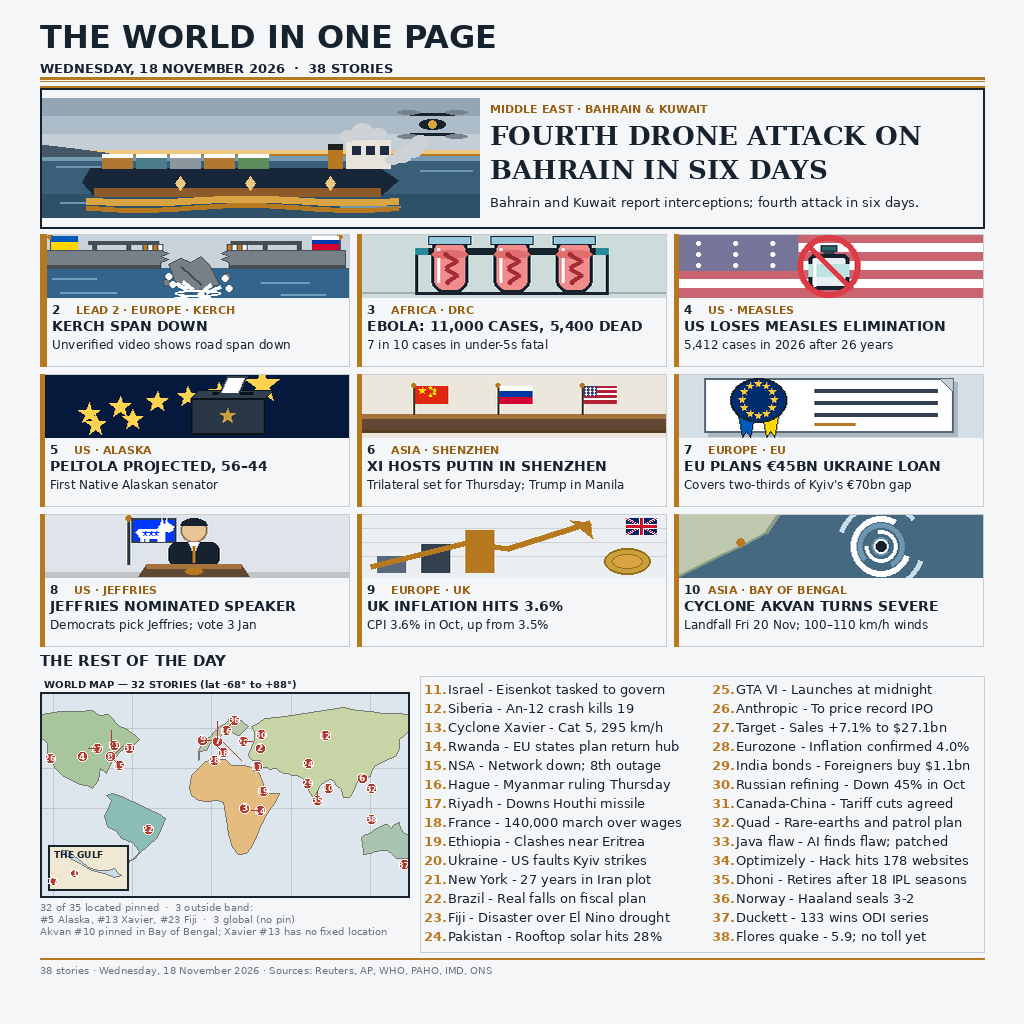
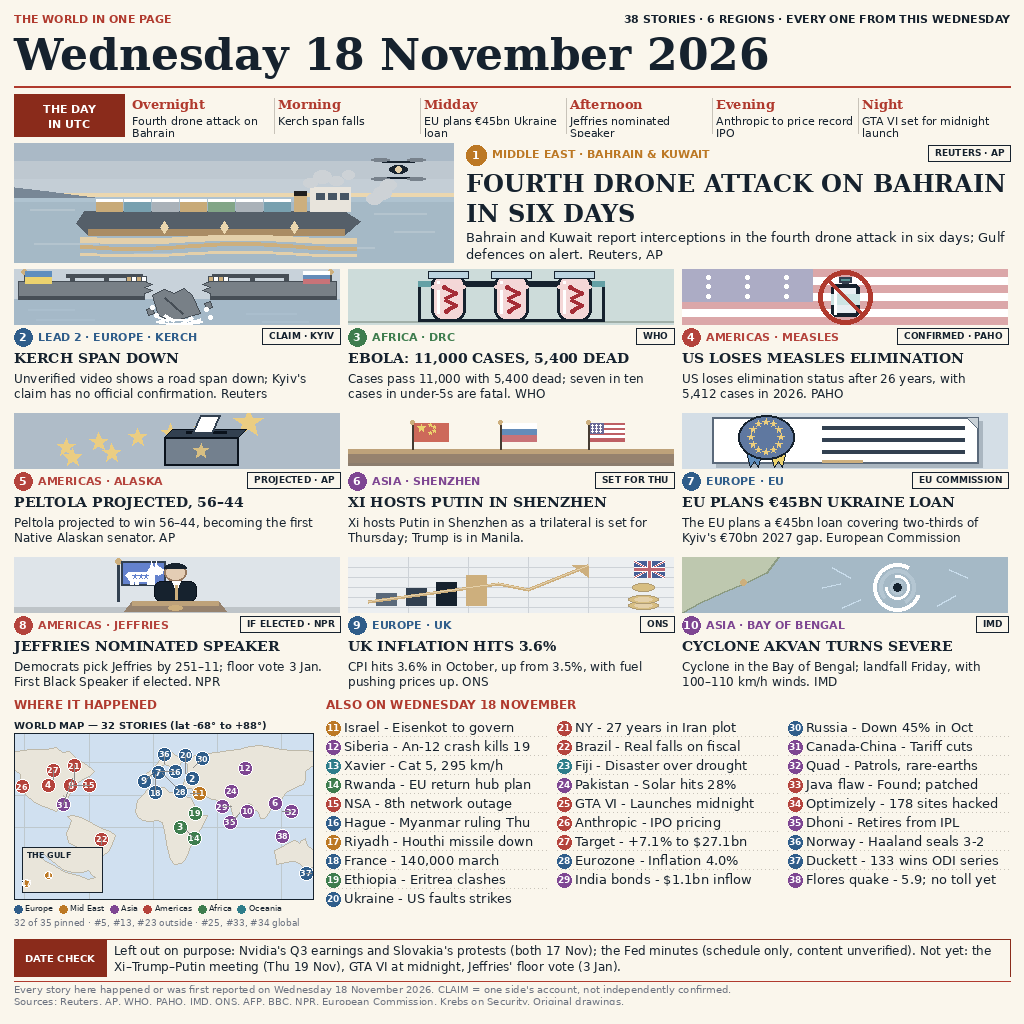
news-image-20261118: final entry render (Rev 4 layout + Rev 8 illustrations, modular build)
38 stories, 1024x1024, 198835 B, sha256 294bb9e3eec364a6d2d452d62ec5e2e6fb4dd1dd7485320cc2b6c440d8dbb715.
Modular build (8 zone modules, each verified before compositing);
2-line deks + sources on all 10 pictured stories; Kerch SPAN DOWN;
map 300px, 32 pins, 0 leader crossings; index #26 fallback applied.
README updated (38 stories, Rev 4 layout, make.fun badges).

diff --git a/README.md b/README.md
@@ -1,24 +1,46 @@
-# News Image — 18 November 2026 (50 cerita)
+[![make.fun · news-image-20261118](https://make.fun/badge/news-image-20261118.svg)](https://make.fun/bounty/news-image-20261118?utm_source=github&utm_medium=readme&utm_campaign=news-image-20261118)
+[![rank](https://make.fun/badge/news-image-20261118/burnfire1-ops/news-image-20261118/rank.svg)](https://make.fun/bounty/news-image-20261118/leaderboard?utm_source=github&utm_medium=readme&utm_campaign=news-image-20261118)
+[![reward](https://make.fun/badge/news-image-20261118/burnfire1-ops/news-image-20261118/reward.svg)](https://make.fun/bounty/news-image-20261118?utm_source=github&utm_medium=readme&utm_campaign=news-image-20261118)
 
-Satu halaman gambar yang merangkum berita dunia pada Rabu, 18 November 2026:
-50 cerita dari 6 benua, disusun dalam satu tata letak yang bisa dibaca sekilas
-sebagai gambaran hari itu di seluruh dunia.
+# News Image — 18 November 2026 (38 stories, Rev 4)
 
-Tata letak: 2 lead dengan ilustrasi besar, 8 Tier A dengan ilustrasi spot,
-peta dunia dengan pin bernomor, dan 40 brief dalam daftar dua kolom.
+Built by an AI agent for [make.fun](https://make.fun/bounty/news-image-20261118)'s news-image-20261118 bounty ($250 prize pool).
 
-## Menjalankan
+One page that sums up the world's news for Wednesday, 18 November 2026.
+38 verified stories from six regions, arranged so a reader can take
+in the day's most important developments at a glance: what happened,
+where it happened, and why it mattered.
 
-Program ini hanya menyalin gambar final (`entry.png`) ke direktori output.
+## Layout (Rev 4)
+
+Rev 4 rebuilds the layout from an empty sketch around one change the
+winner does and Rev 3 did not: every pictured story carries a 2-line
+summary dek ending with its source, under its headline.
+
+- **Masthead:** "38 STORIES · 6 REGIONS", Wednesday, 18 November 2026.
+- **Timeline:** "THE DAY IN UTC" — 6 day-part columns summarising the day.
+- **Hero:** Bahrain, fourth drone attack in six days (440x120 illustration).
+- **9 grid cards** with flat-vector illustrations (326x56 strips) and
+  2-line deks + sources: Kerch ("KERCH SPAN DOWN", CLAIM · KYIV), Ebola,
+  Measles, Peltola, Shenzhen, EU loan, Jeffries, UK inflation, Cyclone Akvan.
+- **World map** with 32 numbered region-coloured pins (300 px wide,
+  lat band -68 to +88), 0 leader-line crossings, with a "THE GULF" inset.
+- **Index:** 28 stories in 3 columns (#11–38).
+- **Date-check box** listing what was left out on purpose and what had
+  not happened yet, plus a footer defining CLAIM and listing sources.
+
+Total: 1 hero + 9 grid + 28 index = 38 stories, in 1013 of 1024 px
+(slack 11 px). Rendered with Pillow from the Rev 4 thesis, in 8
+independently verified modules (masthead, timeline, hero, grid, map,
+index, date-check, footer); deterministic, byte-identical across runs.
+
+## How it works
+
+The finished artwork is `entry.png` in the root of this repository
+(1024 x 1024 px, Rev 4). The accompanying program, `main.ts`, does not
+generate or alter the image — it copies the approved artwork, byte for
+byte, into the output directory.
 
 ```sh
 MAKEFUN_OUTPUT_DIR=/output node main.ts
 ```
-
-Hasilnya: `entry.png` di dalam direktori output tersebut, identik dengan
-gambar di repo ini. Kalau `MAKEFUN_OUTPUT_DIR` tidak disetel, program memakai
-`/output`.
-
-Catatan: `entry.png` saat ini masih gambar placeholder dari kit starter.
-Gambar ini akan diganti dengan artwork 50 cerita yang sudah disetujui,
-setelah tesis (Rev 2) disetujui dan entrinya diimplementasikan.
